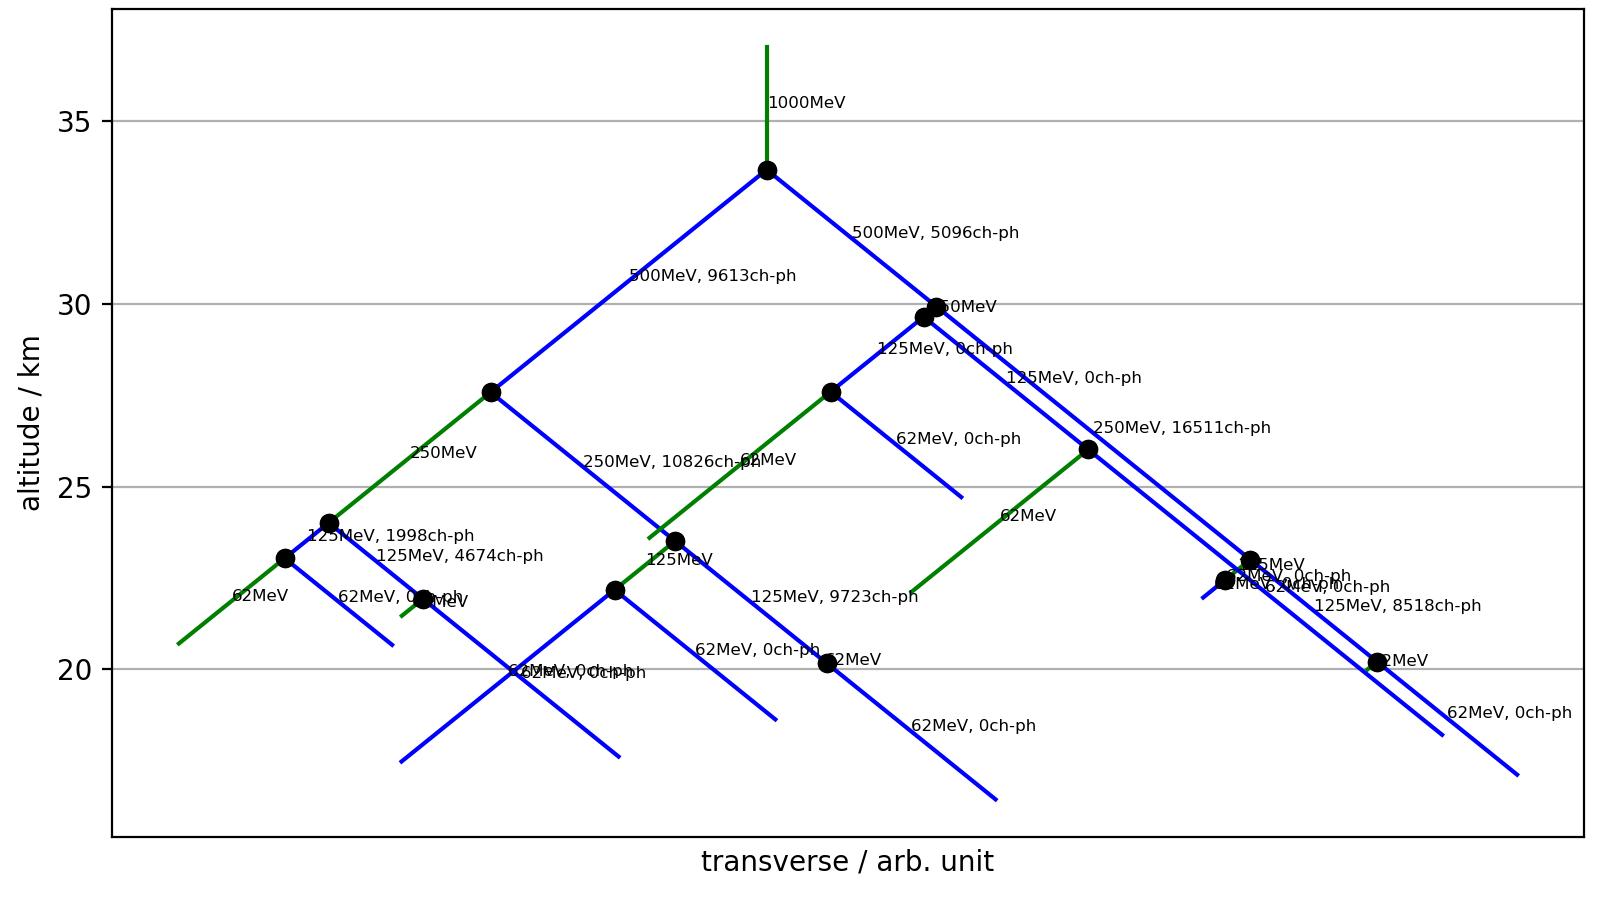
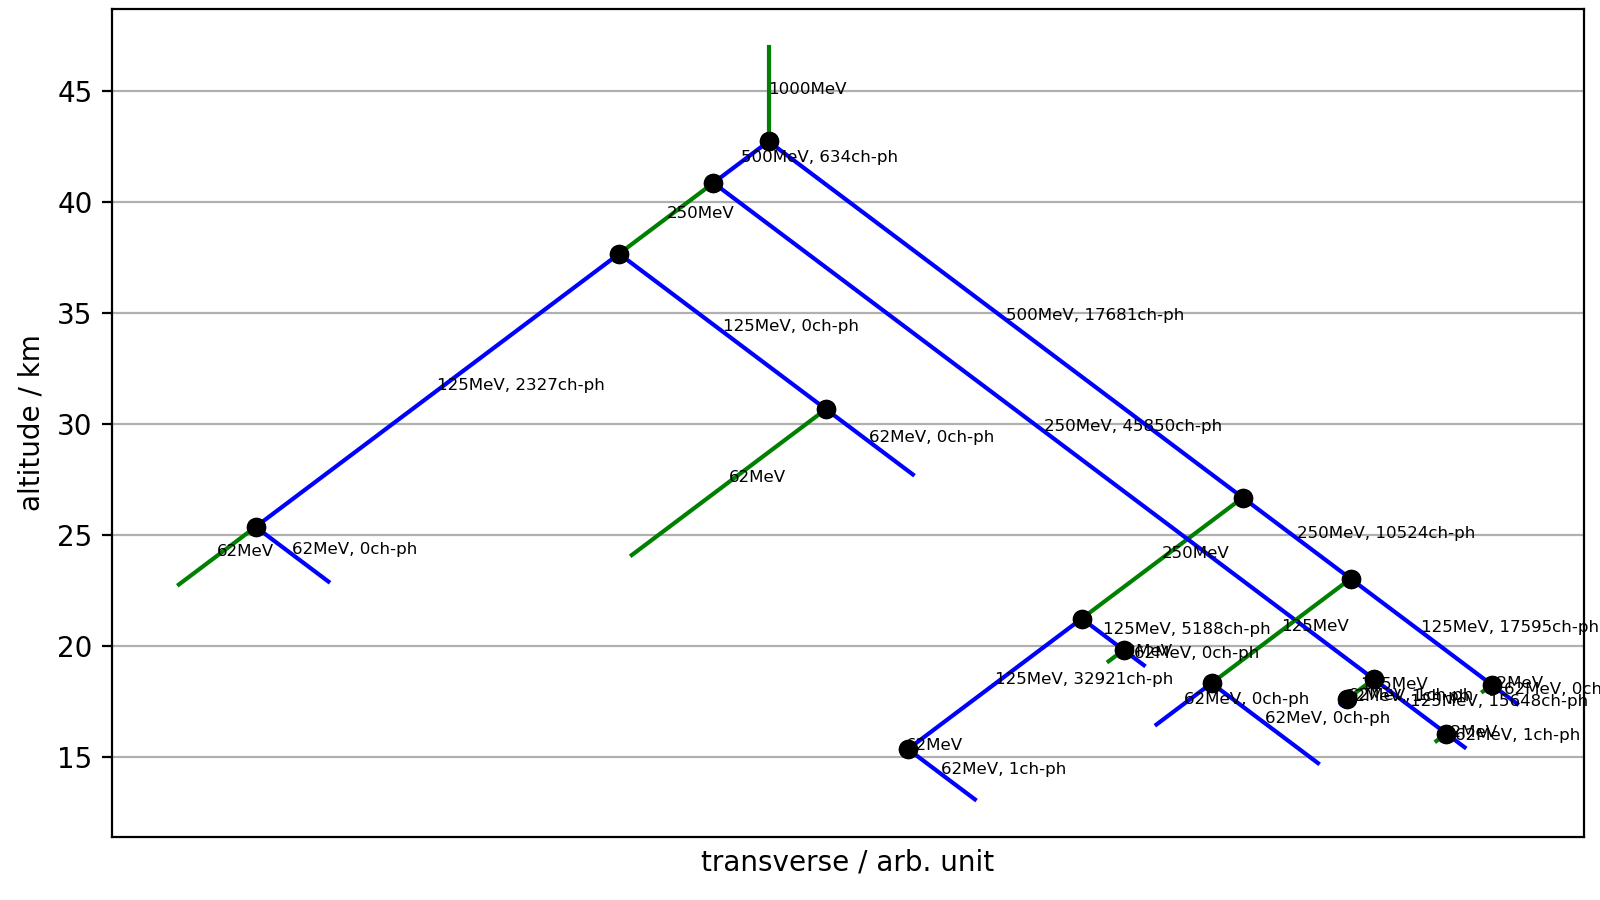
use radiation-length from pdg.gov, fix Lorentz-factor

diff --git a/toy_air_shower/__init__.py b/toy_air_shower/__init__.py
@@ -18,15 +18,19 @@ PLANCK_ACTION = 6.626e-34 # Js
 
 ELECTRON_MASS = 9.10938356e-31 # kg
 
-CRITICAL_ENERGY = 85e6*UNIT_CHARGE # J
+ELECTRON_REST_ENERGY = ELECTRON_MASS*SPEED_OF_LIGHT**2.
+
+CRITICAL_ENERGY = 86e6*UNIT_CHARGE # J
 # At this energy, ionization takes over Bremsstrahlung
+# http://pdg.lbl.gov/2015/AtomicNuclearProperties/HTML/air_dry_1_atm.html
 
 PERMABILITY_AIR = 4.*np.pi*1e-7 * 1.00000037# H/m
 # B. D. Cullity and C. D. Graham (2008),
 # Introduction to Magnetic Materials, 2nd edition, 568 pp., p.16
 
-RADIATION_LENGTH_AIR = 45 # g/cm^2
+RADIATION_LENGTH_AIR = 36.62 # g/cm^2
 # Depth to be traversed before Energy is reduced to 1/e.
+# http://pdg.lbl.gov/2015/AtomicNuclearProperties/HTML/air_dry_1_atm.html
 
 # dE/dx = E*e^{-x/X0}
 # 1/2 E = E*e^{-x/X0}
@@ -82,6 +86,17 @@ def depth_to_altitude(depth):
 
 def expovariate(rate):
     return -np.log(np.random.uniform())/rate
+
+
+def lorentz_factor(kinetic_energy, rest_energy):
+    return 1. + kinetic_energy/rest_energy
+
+
+def natural_velocity(kinetic_energy, rest_energy):
+    gamma = lorentz_factor(
+        kinetic_energy=kinetic_energy,
+        rest_energy=rest_energy)
+    return np.sqrt(1. - 1./gamma**2)
 
 
 def make_cherenkov_spectrum(wvl_range):
@@ -211,43 +226,48 @@ def simulate_gamma_ray_air_shower(
             # Cherenkov emission
             # ------------------
             current_altitude = particles[todo[0]]['start_altitude']
+            em = False
             while True:
-                current_gamma_factor = particles[todo[0]]['energy']/(
-                    ELECTRON_MASS * SPEED_OF_LIGHT**2)
-                current_beta = np.sqrt(1. - 1./current_gamma_factor**2)
+                current_beta = natural_velocity(
+                    kinetic_energy=particles[todo[0]]['energy'],
+                    rest_energy=ELECTRON_REST_ENERGY)
+
                 current_n = refraction_in_air(current_altitude)
 
-                if current_beta < 1./current_n:
-                    break
+                if current_beta > 1./current_n:
+                    energy_loss_per_unit_length = - dE_over_dz(
+                        q=UNIT_CHARGE,
+                        beta=current_beta,
+                        n=current_n,
+                        mu=PERMABILITY_AIR,
+                        wavelength_start=wavelength_start,
+                        wavelength_end=wavelength_end)
 
-                energy_loss_per_unit_length = - dE_over_dz(
-                    q=UNIT_CHARGE,
-                    beta=current_beta,
-                    n=current_n,
-                    mu=PERMABILITY_AIR,
-                    wavelength_start=wavelength_start,
-                    wavelength_end=wavelength_end)
+                    wavelength = draw_wavelength(
+                        cherenkov_spectrum_cdf=cherenkov_spectrum_cdf,
+                        wavelength_range=wavelength_range)
 
-                wavelength = draw_wavelength(
-                    cherenkov_spectrum_cdf=cherenkov_spectrum_cdf,
-                    wavelength_range=wavelength_range)
+                    energy_of_cherenkov_photon = (
+                        PLANCK_ACTION*SPEED_OF_LIGHT/wavelength)
 
-                energy_of_cherenkov_photon = (
-                    PLANCK_ACTION*SPEED_OF_LIGHT/wavelength)
+                    emmission_rate_per_unit_length = (
+                        energy_loss_per_unit_length/energy_of_cherenkov_photon)
+                    distance_until_next_emission = expovariate(
+                        emmission_rate_per_unit_length)
+                    assert(distance_until_next_emission >= 0)
 
-                emmission_rate_per_unit_length = (
-                    energy_loss_per_unit_length/energy_of_cherenkov_photon)
-                distance_until_next_emission = expovariate(
-                    emmission_rate_per_unit_length)
-                assert(distance_until_next_emission >= 0)
+                    if distance_until_next_emission > 1e2:
+                        distance_until_next_emission = 1e2
 
-                current_altitude -= distance_until_next_emission
-                particles[todo[0]]['energy'] -= energy_of_cherenkov_photon
-                cherenkov_photons_altitude.append(current_altitude)
-                cherenkov_photons_wvl.append(wavelength)
-                cherenkov_photons_theta.append(
-                    np.arccos(1.0/(current_n*current_beta)))
-                cherenkov_photons_mother.append(todo[0])
+                    current_altitude -= distance_until_next_emission
+                    particles[todo[0]]['energy'] -= energy_of_cherenkov_photon
+                    cherenkov_photons_altitude.append(current_altitude)
+                    cherenkov_photons_wvl.append(wavelength)
+                    cherenkov_photons_theta.append(
+                        np.arccos(1.0/(current_n*current_beta)))
+                    cherenkov_photons_mother.append(todo[0])
+                else:
+                    current_altitude -= 1e1
 
                 if current_altitude < next_interaction_altitude:
                     break

diff --git a/toy_air_shower/plot.py b/toy_air_shower/plot.py
@@ -96,7 +96,7 @@ def save_figure_frank_tamm(
         np.log10(100e3),
         128)
     energies = np.logspace(
-        np.log10(1e6*tas.UNIT_CHARGE),
+        np.log10(1e7*tas.UNIT_CHARGE),
         np.log10(1e9*tas.UNIT_CHARGE),
         128)
 
@@ -104,11 +104,11 @@ def save_figure_frank_tamm(
 
     for aidx, altitude in enumerate(altitudes):
         for eidx, energy in enumerate(energies):
-            current_gamma_factor = energy/(
-                tas.ELECTRON_MASS *
-                tas.SPEED_OF_LIGHT**2)
-            current_beta = np.sqrt(1. - 1./current_gamma_factor**2)
             current_n = tas.refraction_in_air(altitude)
+            current_beta = tas.natural_velocity(
+                kinetic_energy=energy,
+                rest_energy=tas.ELECTRON_REST_ENERGY)
+
             if current_beta < 1./current_n:
                 cherenkov_yield[aidx, eidx] = 0.
             else:
